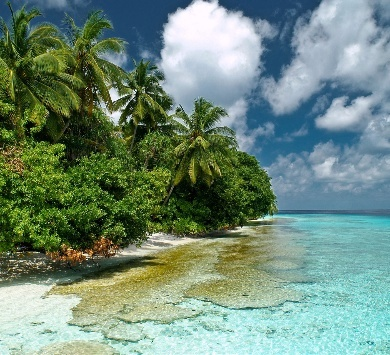
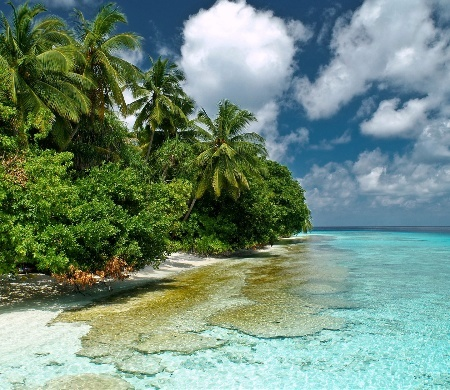
Fix the horizontal

diff --git a/seam-carving.py b/seam-carving.py
@@ -12,7 +12,7 @@ def seam_carve(image_path,output_image_path,seam_num):
     image = cv2.imread(image_path)
     if VERTICAL_MODE == False:
         print('yes')
-        numpy.rot90(image,1,(1,0))
+        image = numpy.rot90(image,1,(1,0))
     width = image.shape[1]
     if width > MAX_IMAGE_WIDTH:
         image = resize(image,MAX_IMAGE_WIDTH)
@@ -21,7 +21,7 @@ def seam_carve(image_path,output_image_path,seam_num):
     output_image = image
     output_image = remove_seams(output_image,seam_num)
     if VERTICAL_MODE == False:
-        numpy.rot90(output_image,-1,(1,0))
+        output_image = numpy.rot90(output_image,-1,(1,0))
     cv2.imwrite(output_image_path,output_image)
     output_image = cv2.imread(output_image_path)
     output_image = cv2.cvtColor(output_image, cv2.COLOR_BGR2RGB)
@@ -31,7 +31,9 @@ def remove_seams(image,seam_num):
     seam_images = []
     for i in range(seam_num):
         boolmask = get_min_seam_mask(image)
-        seam_images.append(heighlight_mask(image,boolmask))
+        gif_image = heighlight_mask(image,boolmask)
+        gif_image = numpy.rot90(gif_image,-1,(1,0))
+        seam_images.append(gif_image)
         image = remove_seam(image,boolmask)
         print(f'seam number { i+1 } is removed')
     imageio.mimsave('./images/output.gif', seam_images)
